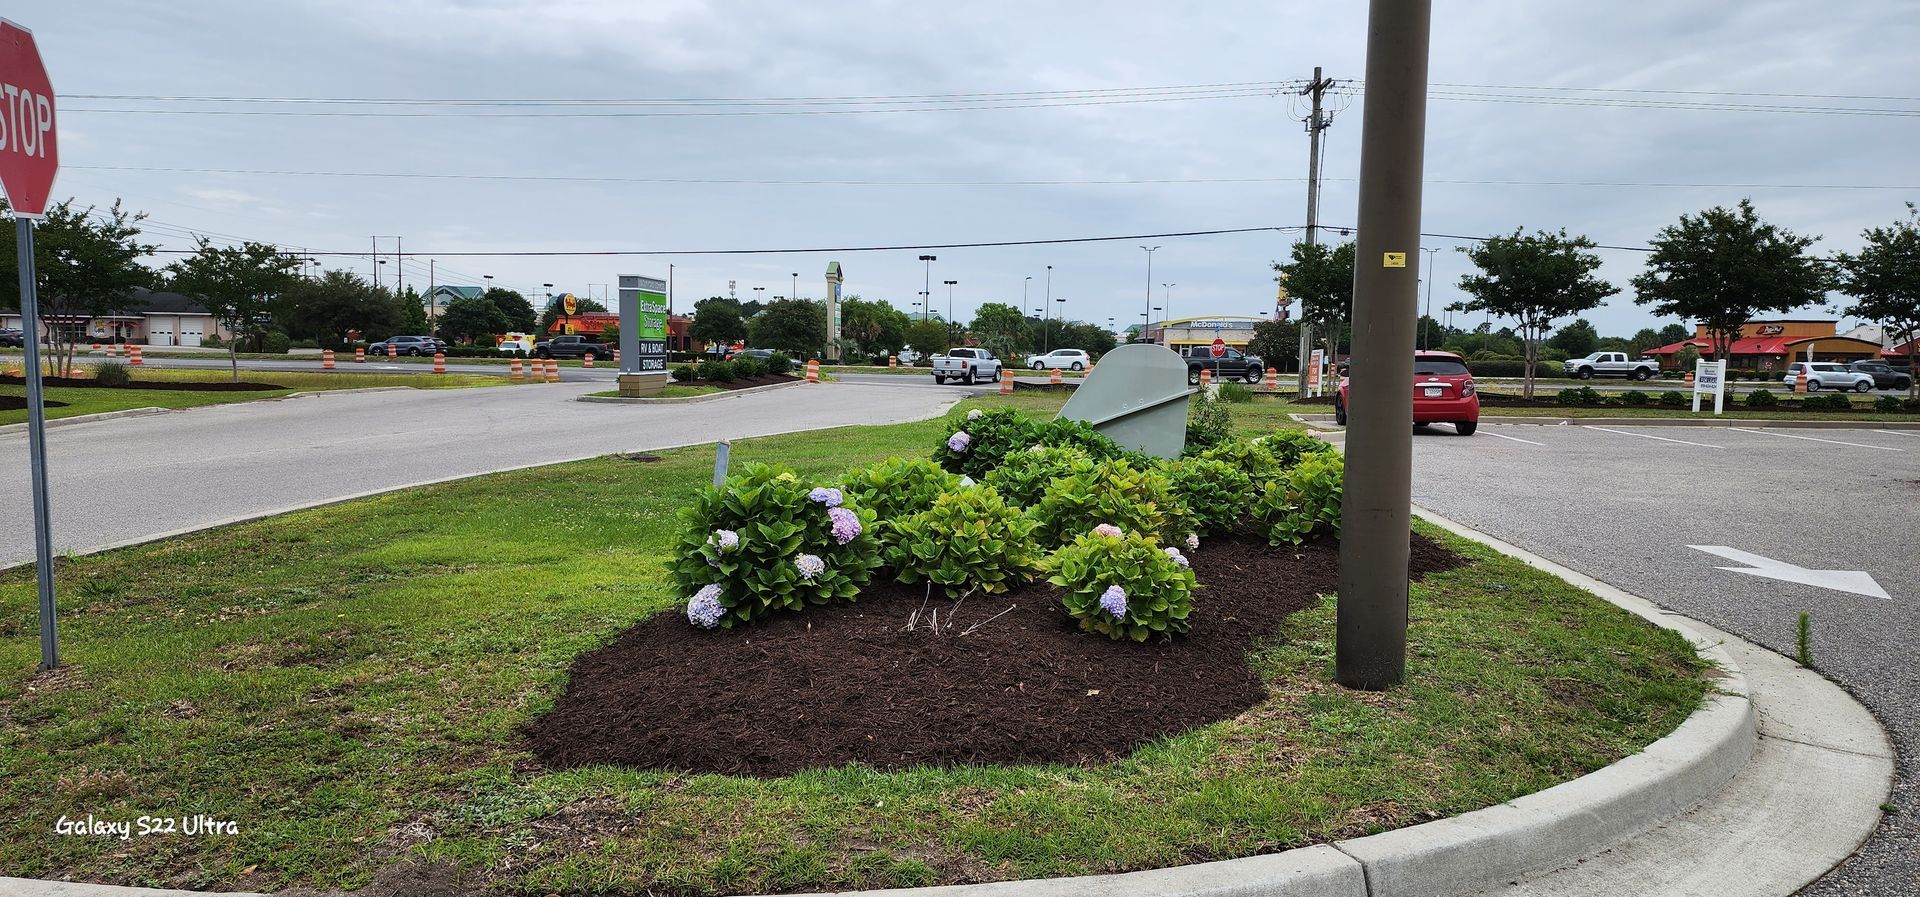
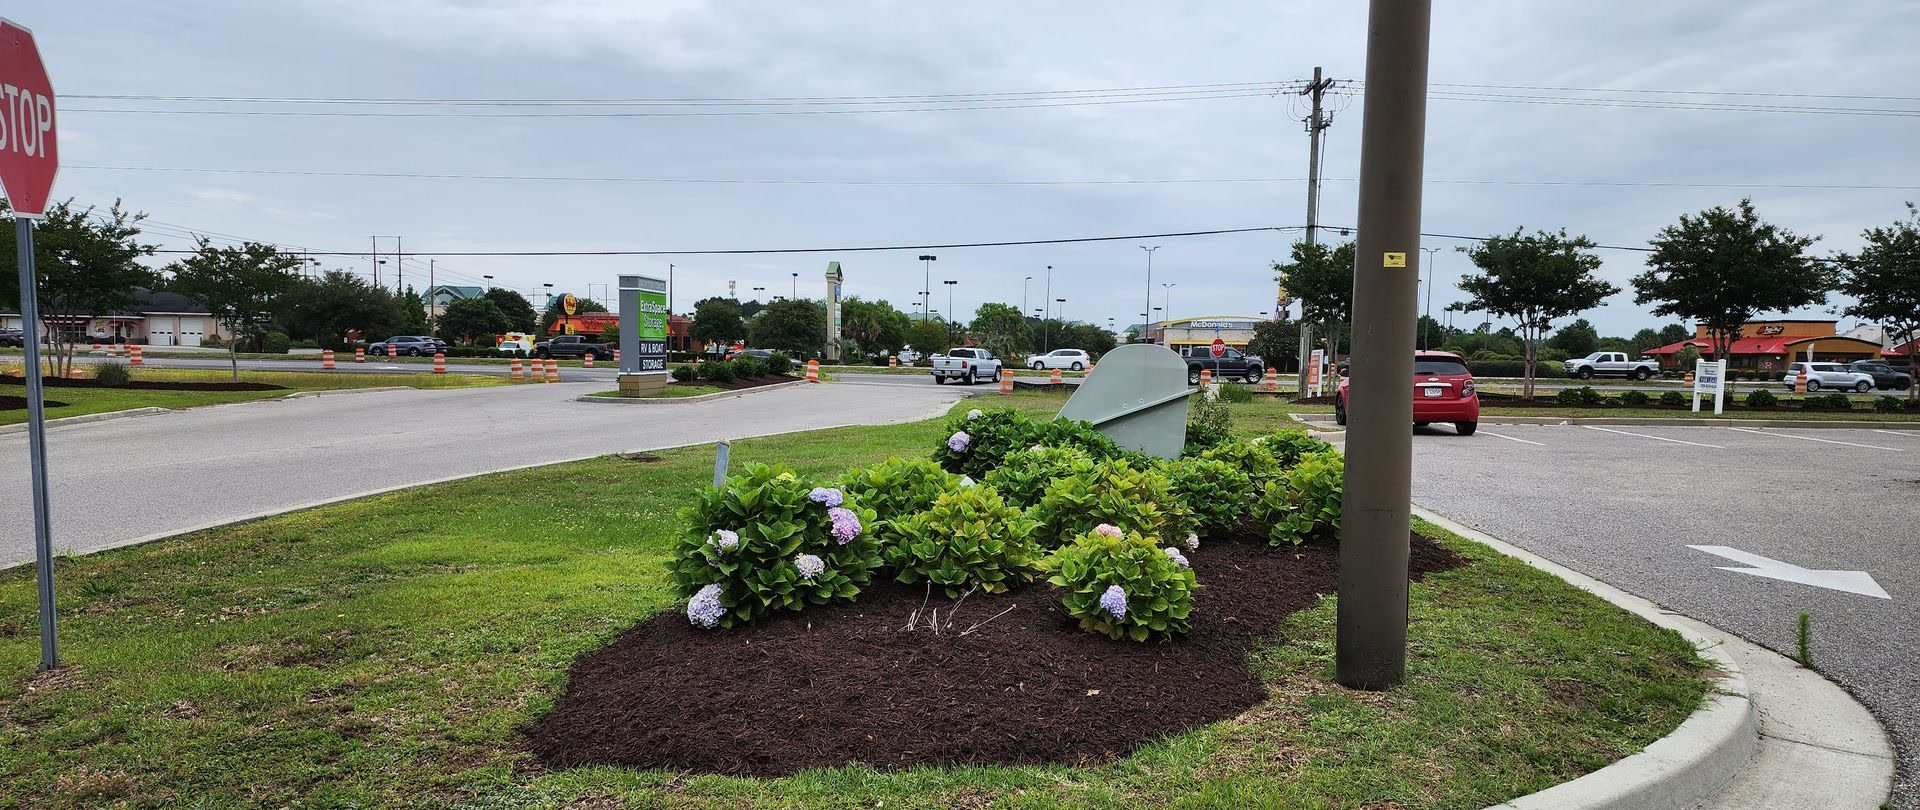
Small Town honesty: remove 3 stock under Skipper crew, crop Galaxy watermark (OUT-1445).

diff --git a/small-town-landscaping/index.html b/small-town-landscaping/index.html
@@ -1,4 +1,4 @@
-<!doctype html>
+<!doctype html>
 <html lang="en">
 <head>
 <meta charset="utf-8">
@@ -283,17 +283,15 @@ footer li a{display:inline-block;padding:4px 0}
     <div class="center">
       <p class="kicker">Recent work</p>
       <h2 id="h-gallery">Job photos from Skipper's crew</h2>
-      <p class="lede">Real work from Small Town Landscaping and Irrigation â€” irrigation, drainage, sod, planting and land clearing around the Grand Strand.</p>
+      <p class="lede">Real work from Small Town Landscaping and Irrigation — irrigation, drainage, sod, planting and land clearing around the Grand Strand.</p>
     </div>
     <div class="gallery">
-      <img src="assets/job-landscape-153756.jpg?v=ae3c4cd" alt="Finished green lawn with palms and pines after landscaping work" loading="lazy">
-      <img src="assets/job-landscape-121356.jpg?v=ae3c4cd" alt="Fresh sod being installed at a residential home with equipment on site" loading="lazy">
-      <img src="assets/job-gallery-07.jpg?v=ae3c4cd" alt="Hydrangea planting bed with fresh mulch at a commercial property" loading="lazy">
-      <img src="assets/job-irrigation-heads.jpg?v=ae3c4cd" alt="Pop-up irrigation sprinkler watering a green lawn" loading="lazy">
-      <img src="assets/job-drainage.jpg?v=ae3c4cd" alt="Drainage culvert pipe moving water off a property" loading="lazy">
-      <img src="assets/job-tree-removal.jpg?v=ae3c4cd" alt="Uprooted stump and cleared ground after tree removal" loading="lazy">
-      <img src="assets/job-landscape-091448.jpg?v=ae3c4cd" alt="Residential yard prepared for landscaping beside the house" loading="lazy">
-      <img src="assets/job-sod-before.jpg?v=ae3c4cd" alt="Damaged lawn patch before sod or repair work" loading="lazy">
+      <!-- OUT-1445 honesty: stock (drainage / tree-removal / irrigation-heads) removed. Galaxy watermark cropped from gallery-07. -->
+      <img src="assets/job-landscape-153756.jpg?v=st1445h" alt="Finished green lawn with palms and pines after landscaping work" loading="lazy">
+      <img src="assets/job-landscape-121356.jpg?v=st1445h" alt="Fresh sod being installed at a residential home with equipment on site" loading="lazy">
+      <img src="assets/job-gallery-07.jpg?v=st1445h" alt="Hydrangea planting bed with fresh mulch at a commercial property" loading="lazy">
+      <img src="assets/job-landscape-091448.jpg?v=st1445h" alt="Residential yard prepared for landscaping beside the house" loading="lazy">
+      <img src="assets/job-sod-before.jpg?v=st1445h" alt="Damaged lawn patch before sod or repair work" loading="lazy">
     </div>
     <p class="photonote">Photos above come from Skipper's own published site (smalltownlandscapingandirrigation.com), used here in a demo of his business. Fresh phone photos from Skipper can replace these any time.</p>
   </div>
@@ -383,7 +381,7 @@ footer li a{display:inline-block;padding:4px 0}
         </div>
       </div>
       <div class="shot">
-        <img src="assets/job-landscape-153756.jpg?v=ae3c4cd" alt="Finished landscaping work by Small Town Landscaping and Irrigation" loading="lazy">
+        <img src="assets/job-landscape-153756.jpg?v=st1445h" alt="Finished landscaping work by Small Town Landscaping and Irrigation" loading="lazy">
       </div>
     </div>
   </div>
